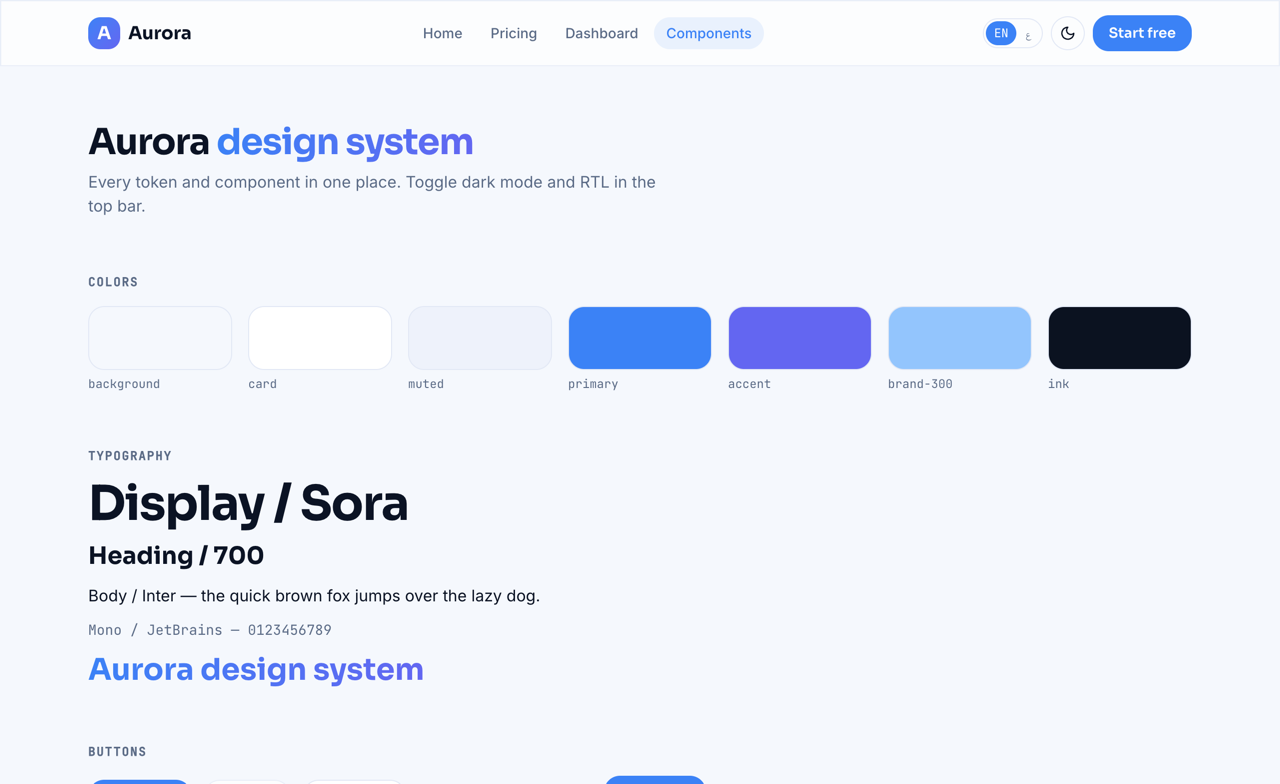
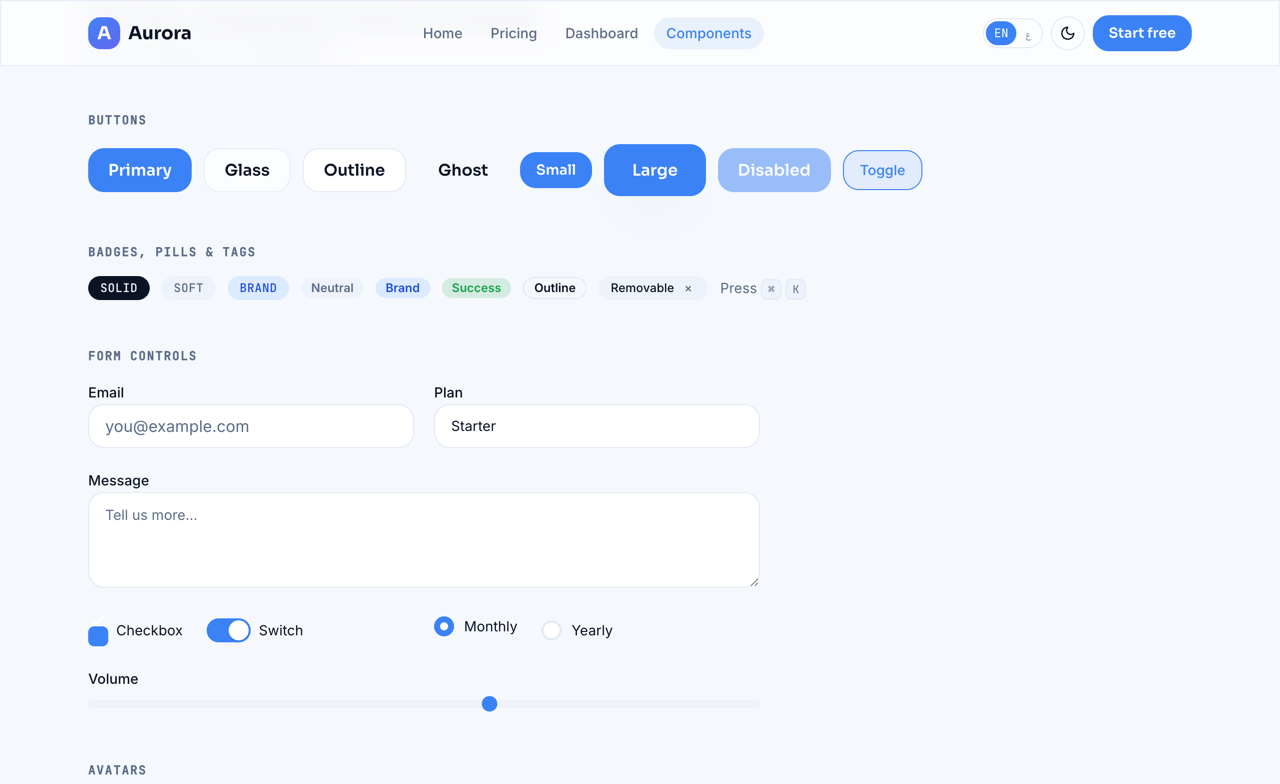
feat(aurora): expanded component showcase; recaptured

diff --git a/apps/web/public/demos/aurora/components/index.html b/apps/web/public/demos/aurora/components/index.html
@@ -10,8 +10,8 @@
       href="https://fonts.googleapis.com/css2?family=Sora:wght@500;600;700;800&family=Inter:wght@400;500;600&family=JetBrains+Mono:wght@400;500&family=Cairo:wght@400;600;700;800&display=swap"
       rel="stylesheet"
     />
-    <script type="module" crossorigin src="/demos/aurora/assets/index-C7sUe5hD.js"></script>
-    <link rel="stylesheet" crossorigin href="/demos/aurora/assets/index-BeMWQTHS.css">
+    <script type="module" crossorigin src="/demos/aurora/assets/index-BBTeIl3P.js"></script>
+    <link rel="stylesheet" crossorigin href="/demos/aurora/assets/index-Bfr8nJ9C.css">
   </head>
   <body>
     <div id="root"></div>

diff --git a/apps/web/public/demos/aurora/dashboard/index.html b/apps/web/public/demos/aurora/dashboard/index.html
@@ -10,8 +10,8 @@
       href="https://fonts.googleapis.com/css2?family=Sora:wght@500;600;700;800&family=Inter:wght@400;500;600&family=JetBrains+Mono:wght@400;500&family=Cairo:wght@400;600;700;800&display=swap"
       rel="stylesheet"
     />
-    <script type="module" crossorigin src="/demos/aurora/assets/index-C7sUe5hD.js"></script>
-    <link rel="stylesheet" crossorigin href="/demos/aurora/assets/index-BeMWQTHS.css">
+    <script type="module" crossorigin src="/demos/aurora/assets/index-BBTeIl3P.js"></script>
+    <link rel="stylesheet" crossorigin href="/demos/aurora/assets/index-Bfr8nJ9C.css">
   </head>
   <body>
     <div id="root"></div>

diff --git a/apps/web/public/demos/aurora/index.html b/apps/web/public/demos/aurora/index.html
@@ -10,8 +10,8 @@
       href="https://fonts.googleapis.com/css2?family=Sora:wght@500;600;700;800&family=Inter:wght@400;500;600&family=JetBrains+Mono:wght@400;500&family=Cairo:wght@400;600;700;800&display=swap"
       rel="stylesheet"
     />
-    <script type="module" crossorigin src="/demos/aurora/assets/index-C7sUe5hD.js"></script>
-    <link rel="stylesheet" crossorigin href="/demos/aurora/assets/index-BeMWQTHS.css">
+    <script type="module" crossorigin src="/demos/aurora/assets/index-BBTeIl3P.js"></script>
+    <link rel="stylesheet" crossorigin href="/demos/aurora/assets/index-Bfr8nJ9C.css">
   </head>
   <body>
     <div id="root"></div>

diff --git a/apps/web/public/demos/aurora/pricing/index.html b/apps/web/public/demos/aurora/pricing/index.html
@@ -10,8 +10,8 @@
       href="https://fonts.googleapis.com/css2?family=Sora:wght@500;600;700;800&family=Inter:wght@400;500;600&family=JetBrains+Mono:wght@400;500&family=Cairo:wght@400;600;700;800&display=swap"
       rel="stylesheet"
     />
-    <script type="module" crossorigin src="/demos/aurora/assets/index-C7sUe5hD.js"></script>
-    <link rel="stylesheet" crossorigin href="/demos/aurora/assets/index-BeMWQTHS.css">
+    <script type="module" crossorigin src="/demos/aurora/assets/index-BBTeIl3P.js"></script>
+    <link rel="stylesheet" crossorigin href="/demos/aurora/assets/index-Bfr8nJ9C.css">
   </head>
   <body>
     <div id="root"></div>

diff --git a/apps/web/public/demos/aurora/assets/index-Bfr8nJ9C.css b/apps/web/public/demos/aurora/assets/index-Bfr8nJ9C.css
@@ -1,0 +1,1 @@
+@layer properties{@supports (((-webkit-hyphens:none)) and (not (margin-trim:inline))) or ((-moz-orient:inline) and (not (color:rgb(from red r g b)))){*,:before,:after,::backdrop{--tw-translate-x:0;--tw-translate-y:0;--tw-translate-z:0;--tw-space-y-reverse:0;--tw-space-x-reverse:0;--tw-divide-y-reverse:0;--tw-border-style:solid;--tw-gradient-position:initial;--tw-gradient-from:#0000;--tw-gradient-via:#0000;--tw-gradient-to:#0000;--tw-gradient-stops:initial;--tw-gradient-via-stops:initial;--tw-gradient-from-position:0%;--tw-gradient-via-position:50%;--tw-gradient-to-position:100%;--tw-leading:initial;--tw-font-weight:initial;--tw-tracking:initial;--tw-shadow:0 0 #0000;--tw-shadow-color:initial;--tw-shadow-alpha:100%;--tw-inset-shadow:0 0 #0000;--tw-inset-shadow-color:initial;--tw-inset-shadow-alpha:100%;--tw-ring-color:initial;--tw-ring-shadow:0 0 #0000;--tw-inset-ring-color:initial;--tw-inset-ring-shadow:0 0 #0000;--tw-ring-inset:initial;--tw-ring-offset-width:0px;--tw-ring-offset-color:#fff;--tw-ring-offset-shadow:0 0 #0000;--tw-outline-style:solid;--tw-backdrop-blur:initial;--tw-backdrop-brightness:initial;--tw-backdrop-contrast:initial;--tw-backdrop-grayscale:initial;--tw-backdrop-hue-rotate:initial;--tw-backdrop-invert:initial;--tw-backdrop-opacity:initial;--tw-backdrop-saturate:initial;--tw-backdrop-sepia:initial;--tw-content:"";--tw-blur:initial;--tw-brightness:initial;--tw-contrast:initial;--tw-grayscale:initial;--tw-hue-rotate:initial;--tw-invert:initial;--tw-opacity:initial;--tw-saturate:initial;--tw-sepia:initial;--tw-drop-shadow:initial;--tw-drop-shadow-color:initial;--tw-drop-shadow-alpha:100%;--tw-drop-shadow-size:initial}}}@layer theme{:root,:host{--font-sans:"Inter", "Cairo", system-ui, sans-serif;--font-mono:"JetBrains Mono", ui-monospace, monospace;--color-amber-500:oklch(76.9% .188 70.08);--color-rose-400:oklch(71.2% .194 13.428);--color-rose-500:oklch(64.5% .246 16.439);--color-white:#fff;--spacing:.25rem;--container-sm:24rem;--container-md:28rem;--container-xl:36rem;--container-2xl:42rem;--container-3xl:48rem;--container-4xl:56rem;--container-6xl:72rem;--text-xs:.75rem;--text-xs--line-height:calc(1 / .75);--text-sm:.875rem;--text-sm--line-height:calc(1.25 / .875);--text-base:1rem;--text-base--line-height: 1.5 ;--text-lg:1.125rem;--text-lg--line-height:calc(1.75 / 1.125);--text-xl:1.25rem;--text-xl--line-height:calc(1.75 / 1.25);--text-2xl:1.5rem;--text-2xl--line-height:calc(2 / 1.5);--text-3xl:1.875rem;--text-3xl--line-height: 1.2 ;--text-4xl:2.25rem;--text-4xl--line-height:calc(2.5 / 2.25);--text-5xl:3rem;--text-5xl--line-height:1;--text-6xl:3.75rem;--text-6xl--line-height:1;--text-7xl:4.5rem;--text-7xl--line-height:1;--font-weight-normal:400;--font-weight-medium:500;--font-weight-semibold:600;--font-weight-bold:700;--tracking-tight:-.025em;--tracking-wide:.025em;--tracking-widest:.1em;--leading-snug:1.375;--radius-md:.375rem;--radius-lg:1.5rem;--radius-xl:.75rem;--animate-spin:spin 1s linear infinite;--animate-pulse:pulse 2s cubic-bezier(.4, 0, .6, 1) infinite;--blur-sm:8px;--default-transition-duration:.15s;--default-transition-timing-function:cubic-bezier(.4, 0, .2, 1);--default-font-family:var(--font-sans);--default-mono-font-family:var(--font-mono);--radius:1rem;--font-display:"Sora", "Cairo", system-ui, sans-serif;--color-brand-100:#dbeafe;--color-brand-200:#bfdbfe;--color-brand-300:#93c5fd;--color-brand-400:#60a5fa;--color-brand-500:#3b82f6;--color-brand-700:#1d4ed8;--color-background:#f5f8fd;--color-foreground:#0b1324;--color-card:#fff;--color-muted:#eef2fb;--color-muted-foreground:#5b6b86;--color-border:#e2e8f5;--color-primary:#3b82f6;--color-primary-foreground:#fff;--color-accent:#6366f1;--color-ink:#0b1220;--color-ink-foreground:#eaf0fb;--color-success:#16a34a;--shadow-glass:0 20px 50px -24px #1e3a8a59}}@layer base{*,:after,:before,::backdrop{box-sizing:border-box;border:0 solid;margin:0;padding:0}::file-selector-button{box-sizing:border-box;border:0 solid;margin:0;padding:0}html,:host{-webkit-text-size-adjust:100%;tab-size:4;line-height:1.5;font-family:var(--default-font-family,ui-sans-serif, system-ui, sans-serif, "Apple Color Emoji", "Segoe UI Emoji", "Segoe UI Symbol", "Noto Color Emoji");font-feature-settings:var(--default-font-feature-settings,normal);font-variation-settings:var(--default-font-variation-settings,normal);-webkit-tap-highlight-color:transparent}hr{height:0;color:inherit;border-top-width:1px}abbr:where([title]){-webkit-text-decoration:underline dotted;text-decoration:underline dotted}h1,h2,h3,h4,h5,h6{font-size:inherit;font-weight:inherit}a{color:inherit;-webkit-text-decoration:inherit;text-decoration:inherit}b,strong{font-weight:bolder}code,kbd,samp,pre{font-family:var(--default-mono-font-family,ui-monospace, SFMono-Regular, Menlo, Monaco, Consolas, "Liberation Mono", "Courier New", monospace);font-feature-settings:var(--default-mono-font-feature-settings,normal);font-variation-settings:var(--default-mono-font-variation-settings,normal);font-size:1em}small{font-size:80%}sub,sup{vertical-align:baseline;font-size:75%;line-height:0;position:relative}sub{bottom:-.25em}sup{top:-.5em}table{text-indent:0;border-color:inherit;border-collapse:collapse}:-moz-focusring{outline:auto}progress{vertical-align:baseline}summary{display:list-item}ol,ul,menu{list-style:none}img,svg,video,canvas,audio,iframe,embed,object{vertical-align:middle;display:block}img,video{max-width:100%;height:auto}button,input,select,optgroup,textarea{font:inherit;font-feature-settings:inherit;font-variation-settings:inherit;letter-spacing:inherit;color:inherit;opacity:1;background-color:#0000;border-radius:0}::file-selector-button{font:inherit;font-feature-settings:inherit;font-variation-settings:inherit;letter-spacing:inherit;color:inherit;opacity:1;background-color:#0000;border-radius:0}:where(select:is([multiple],[size])) optgroup{font-weight:bolder}:where(select:is([multiple],[size])) optgroup option{padding-inline-start:20px}::file-selector-button{margin-inline-end:4px}::placeholder{opacity:1}@supports (not ((-webkit-appearance:-apple-pay-button))) or (contain-intrinsic-size:1px){::placeholder{color:currentColor}@supports (color:color-mix(in lab,red,red)){::placeholder{color:color-mix(in oklab,currentcolor 50%,transparent)}}}textarea{resize:vertical}::-webkit-search-decoration{-webkit-appearance:none}::-webkit-date-and-time-value{min-height:1lh;text-align:inherit}::-webkit-datetime-edit{display:inline-flex}::-webkit-datetime-edit-fields-wrapper{padding:0}::-webkit-datetime-edit{padding-block:0}::-webkit-datetime-edit-year-field{padding-block:0}::-webkit-datetime-edit-month-field{padding-block:0}::-webkit-datetime-edit-day-field{padding-block:0}::-webkit-datetime-edit-hour-field{padding-block:0}::-webkit-datetime-edit-minute-field{padding-block:0}::-webkit-datetime-edit-second-field{padding-block:0}::-webkit-datetime-edit-millisecond-field{padding-block:0}::-webkit-datetime-edit-meridiem-field{padding-block:0}::-webkit-calendar-picker-indicator{line-height:1}:-moz-ui-invalid{box-shadow:none}button,input:where([type=button],[type=reset],[type=submit]){appearance:button}::file-selector-button{appearance:button}::-webkit-inner-spin-button{height:auto}::-webkit-outer-spin-button{height:auto}[hidden]:where(:not([hidden=until-found])){display:none!important}.dark{--color-background:#060b16;--color-foreground:#e8eefb;--color-card:#0e1626;--color-muted:#131e33;--color-muted-foreground:#8da3c4;--color-border:#1d2a44;--color-primary:#60a5fa;--color-primary-foreground:#06101f;--color-accent:#818cf8;--color-ink:#05080f;--color-ink-foreground:#e8eefb;--shadow-glass:0 20px 50px -24px #0009}[dir=rtl]{--font-display:"Cairo", "Sora", sans-serif;--font-sans:"Cairo", "Inter", sans-serif}html{background-color:var(--color-background);color:var(--color-foreground);font-family:var(--font-sans);-webkit-font-smoothing:antialiased}}@layer components;@layer utilities{.pointer-events-none{pointer-events:none}.invisible{visibility:hidden}.sr-only{clip-path:inset(50%);white-space:nowrap;border-width:0;width:1px;height:1px;margin:-1px;padding:0;position:absolute;overflow:hidden}.absolute{position:absolute}.fixed{position:fixed}.relative{position:relative}.sticky{position:sticky}.inset-0{inset:0}.start-1\/2{inset-inline-start:50%}.end-0{inset-inline-end:calc(var(--spacing) * 0)}.top-0{top:0}.top-2\.5{top:calc(var(--spacing) * 2.5)}.right-2\.5{right:calc(var(--spacing) * 2.5)}.bottom-full{bottom:100%}.z-20{z-index:20}.z-40{z-index:40}.z-50{z-index:50}.col-start-1{grid-column-start:1}.row-start-1{grid-row-start:1}.mx-1{margin-inline:var(--spacing)}.mx-auto{margin-inline:auto}.mt-1{margin-top:var(--spacing)}.mt-1\.5{margin-top:calc(var(--spacing) * 1.5)}.mt-2{margin-top:calc(var(--spacing) * 2)}.mt-3{margin-top:calc(var(--spacing) * 3)}.mt-4{margin-top:calc(var(--spacing) * 4)}.mt-6{margin-top:calc(var(--spacing) * 6)}.mt-8{margin-top:calc(var(--spacing) * 8)}.mt-9{margin-top:calc(var(--spacing) * 9)}.mt-10{margin-top:calc(var(--spacing) * 10)}.mt-16{margin-top:calc(var(--spacing) * 16)}.mb-1{margin-bottom:var(--spacing)}.mb-2{margin-bottom:calc(var(--spacing) * 2)}.mb-3{margin-bottom:calc(var(--spacing) * 3)}.mb-4{margin-bottom:calc(var(--spacing) * 4)}.mb-6{margin-bottom:calc(var(--spacing) * 6)}.mb-12{margin-bottom:calc(var(--spacing) * 12)}.block{display:block}.flex{display:flex}.grid{display:grid}.hidden{display:none}.inline-block{display:inline-block}.inline-flex{display:inline-flex}.inline-grid{display:inline-grid}.h-1\.5{height:calc(var(--spacing) * 1.5)}.h-2{height:calc(var(--spacing) * 2)}.h-3{height:calc(var(--spacing) * 3)}.h-4{height:calc(var(--spacing) * 4)}.h-5{height:calc(var(--spacing) * 5)}.h-6{height:calc(var(--spacing) * 6)}.h-7{height:calc(var(--spacing) * 7)}.h-8{height:calc(var(--spacing) * 8)}.h-9{height:calc(var(--spacing) * 9)}.h-10{height:calc(var(--spacing) * 10)}.h-11{height:calc(var(--spacing) * 11)}.h-12{height:calc(var(--spacing) * 12)}.h-13{height:calc(var(--spacing) * 13)}.h-16{height:calc(var(--spacing) * 16)}.h-40{height:calc(var(--spacing) * 40)}.h-full{height:100%}.h-px{height:1px}.min-h-24{min-height:calc(var(--spacing) * 24)}.min-h-screen{min-height:100vh}.w-1\.5{width:calc(var(--spacing) * 1.5)}.w-1\/2{width:50%}.w-2{width:calc(var(--spacing) * 2)}.w-3{width:calc(var(--spacing) * 3)}.w-3\/4{width:75%}.w-4{width:calc(var(--spacing) * 4)}.w-5{width:calc(var(--spacing) * 5)}.w-6{width:calc(var(--spacing) * 6)}.w-7{width:calc(var(--spacing) * 7)}.w-8{width:calc(var(--spacing) * 8)}.w-9{width:calc(var(--spacing) * 9)}.w-10{width:calc(var(--spacing) * 10)}.w-11{width:calc(var(--spacing) * 11)}.w-12{width:calc(var(--spacing) * 12)}.w-20{width:calc(var(--spacing) * 20)}.w-44{width:calc(var(--spacing) * 44)}.w-52{width:calc(var(--spacing) * 52)}.w-56{width:calc(var(--spacing) * 56)}.w-fit{width:fit-content}.w-full{width:100%}.w-max{width:max-content}.w-px{width:1px}.max-w-2xl{max-width:var(--container-2xl)}.max-w-3xl{max-width:var(--container-3xl)}.max-w-4xl{max-width:var(--container-4xl)}.max-w-6xl{max-width:var(--container-6xl)}.max-w-md{max-width:var(--container-md)}.max-w-sm{max-width:var(--container-sm)}.max-w-xl{max-width:var(--container-xl)}.min-w-0{min-width:0}.min-w-9{min-width:calc(var(--spacing) * 9)}.flex-1{flex:1}.shrink-0{flex-shrink:0}.-translate-x-1\/2{--tw-translate-x: -50% ;translate:var(--tw-translate-x) var(--tw-translate-y)}.rotate-45{rotate:45deg}.animate-pulse{animation:var(--animate-pulse)}.animate-spin{animation:var(--animate-spin)}.cursor-pointer{cursor:pointer}.appearance-none{appearance:none}.grid-cols-2{grid-template-columns:repeat(2,minmax(0,1fr))}.flex-col{flex-direction:column}.flex-row{flex-direction:row}.flex-wrap{flex-wrap:wrap}.place-items-center{place-items:center}.items-center{align-items:center}.items-end{align-items:flex-end}.items-start{align-items:flex-start}.justify-between{justify-content:space-between}.justify-center{justify-content:center}.gap-1{gap:var(--spacing)}.gap-1\.5{gap:calc(var(--spacing) * 1.5)}.gap-2{gap:calc(var(--spacing) * 2)}.gap-2\.5{gap:calc(var(--spacing) * 2.5)}.gap-3{gap:calc(var(--spacing) * 3)}.gap-4{gap:calc(var(--spacing) * 4)}.gap-5{gap:calc(var(--spacing) * 5)}.gap-6{gap:calc(var(--spacing) * 6)}.gap-8{gap:calc(var(--spacing) * 8)}:where(.space-y-1>:not(:last-child)){--tw-space-y-reverse:0;margin-block-start:calc(var(--spacing) * var(--tw-space-y-reverse));margin-block-end:calc(var(--spacing) * calc(1 - var(--tw-space-y-reverse)))}:where(.space-y-1\.5>:not(:last-child)){--tw-space-y-reverse:0;margin-block-start:calc(calc(var(--spacing) * 1.5) * var(--tw-space-y-reverse));margin-block-end:calc(calc(var(--spacing) * 1.5) * calc(1 - var(--tw-space-y-reverse)))}:where(.space-y-2>:not(:last-child)){--tw-space-y-reverse:0;margin-block-start:calc(calc(var(--spacing) * 2) * var(--tw-space-y-reverse));margin-block-end:calc(calc(var(--spacing) * 2) * calc(1 - var(--tw-space-y-reverse)))}:where(.space-y-3>:not(:last-child)){--tw-space-y-reverse:0;margin-block-start:calc(calc(var(--spacing) * 3) * var(--tw-space-y-reverse));margin-block-end:calc(calc(var(--spacing) * 3) * calc(1 - var(--tw-space-y-reverse)))}:where(.space-y-3\.5>:not(:last-child)){--tw-space-y-reverse:0;margin-block-start:calc(calc(var(--spacing) * 3.5) * var(--tw-space-y-reverse));margin-block-end:calc(calc(var(--spacing) * 3.5) * calc(1 - var(--tw-space-y-reverse)))}:where(.space-y-4>:not(:last-child)){--tw-space-y-reverse:0;margin-block-start:calc(calc(var(--spacing) * 4) * var(--tw-space-y-reverse));margin-block-end:calc(calc(var(--spacing) * 4) * calc(1 - var(--tw-space-y-reverse)))}:where(.space-y-6>:not(:last-child)){--tw-space-y-reverse:0;margin-block-start:calc(calc(var(--spacing) * 6) * var(--tw-space-y-reverse));margin-block-end:calc(calc(var(--spacing) * 6) * calc(1 - var(--tw-space-y-reverse)))}:where(.space-y-12>:not(:last-child)){--tw-space-y-reverse:0;margin-block-start:calc(calc(var(--spacing) * 12) * var(--tw-space-y-reverse));margin-block-end:calc(calc(var(--spacing) * 12) * calc(1 - var(--tw-space-y-reverse)))}:where(.-space-x-2>:not(:last-child)){--tw-space-x-reverse:0;margin-inline-start:calc(calc(var(--spacing) * -2) * var(--tw-space-x-reverse));margin-inline-end:calc(calc(var(--spacing) * -2) * calc(1 - var(--tw-space-x-reverse)))}:where(.divide-y>:not(:last-child)){--tw-divide-y-reverse:0;border-bottom-style:var(--tw-border-style);border-top-style:var(--tw-border-style);border-top-width:calc(1px * var(--tw-divide-y-reverse));border-bottom-width:calc(1px * calc(1 - var(--tw-divide-y-reverse)))}:where(.divide-border>:not(:last-child)){border-color:var(--color-border)}.self-stretch{align-self:stretch}.truncate{text-overflow:ellipsis;white-space:nowrap;overflow:hidden}.overflow-hidden{overflow:hidden}.rounded,.rounded-\[var\(--radius\)\]{border-radius:var(--radius)}.rounded-\[var\(--radius-lg\)\]{border-radius:var(--radius-lg)}.rounded-full{border-radius:3.40282e38px}.rounded-lg{border-radius:var(--radius-lg)}.rounded-md{border-radius:var(--radius-md)}.rounded-xl{border-radius:var(--radius-xl)}.rounded-t{border-top-left-radius:var(--radius);border-top-right-radius:var(--radius)}.border{border-style:var(--tw-border-style);border-width:1px}.border-2{border-style:var(--tw-border-style);border-width:2px}.border-y{border-block-style:var(--tw-border-style);border-block-width:1px}.border-t{border-top-style:var(--tw-border-style);border-top-width:1px}.border-t-0{border-top-style:var(--tw-border-style);border-top-width:0}.border-b{border-bottom-style:var(--tw-border-style);border-bottom-width:1px}.border-b-2{border-bottom-style:var(--tw-border-style);border-bottom-width:2px}.border-dashed{--tw-border-style:dashed;border-style:dashed}.border-amber-500\/30{border-color:#f99c004d}@supports (color:color-mix(in lab,red,red)){.border-amber-500\/30{border-color:color-mix(in oklab,var(--color-amber-500) 30%,transparent)}}.border-border{border-color:var(--color-border)}.border-border\/60{border-color:#e2e8f599}@supports (color:color-mix(in lab,red,red)){.border-border\/60{border-color:color-mix(in oklab,var(--color-border) 60%,transparent)}}.border-primary{border-color:var(--color-primary)}.border-primary\/30{border-color:#3b82f64d}@supports (color:color-mix(in lab,red,red)){.border-primary\/30{border-color:color-mix(in oklab,var(--color-primary) 30%,transparent)}}.border-rose-500\/30{border-color:#ff23574d}@supports (color:color-mix(in lab,red,red)){.border-rose-500\/30{border-color:color-mix(in oklab,var(--color-rose-500) 30%,transparent)}}.border-success\/30{border-color:#16a34a4d}@supports (color:color-mix(in lab,red,red)){.border-success\/30{border-color:color-mix(in oklab,var(--color-success) 30%,transparent)}}.border-transparent{border-color:#0000}.border-white\/10{border-color:#ffffff1a}@supports (color:color-mix(in lab,red,red)){.border-white\/10{border-color:color-mix(in oklab,var(--color-white) 10%,transparent)}}.border-t-primary{border-top-color:var(--color-primary)}.glass{background-color:#ffffffb8}@supports (color:color-mix(in lab,red,red)){.glass{background-color:color-mix(in oklab,var(--color-card) 72%,transparent)}}.glass{-webkit-backdrop-filter:blur(14px);backdrop-filter:blur(14px);border:1px solid #e2e8f5b3}@supports (color:color-mix(in lab,red,red)){.glass{border:1px solid color-mix(in oklab,var(--color-border) 70%,transparent)}}.bg-accent{background-color:var(--color-accent)}.bg-amber-500{background-color:var(--color-amber-500)}.bg-amber-500\/5{background-color:#f99c000d}@supports (color:color-mix(in lab,red,red)){.bg-amber-500\/5{background-color:color-mix(in oklab,var(--color-amber-500) 5%,transparent)}}.bg-background{background-color:var(--color-background)}.bg-border{background-color:var(--color-border)}.bg-brand-100{background-color:var(--color-brand-100)}.bg-brand-200{background-color:var(--color-brand-200)}.bg-brand-300{background-color:var(--color-brand-300)}.bg-brand-400{background-color:var(--color-brand-400)}.bg-card{background-color:var(--color-card)}.bg-card\/60{background-color:#fff9}@supports (color:color-mix(in lab,red,red)){.bg-card\/60{background-color:color-mix(in oklab,var(--color-card) 60%,transparent)}}.bg-foreground{background-color:var(--color-foreground)}.bg-foreground\/80{background-color:#0b1324cc}@supports (color:color-mix(in lab,red,red)){.bg-foreground\/80{background-color:color-mix(in oklab,var(--color-foreground) 80%,transparent)}}.bg-ink{background-color:var(--color-ink)}.bg-ink\/50{background-color:#0b122080}@supports (color:color-mix(in lab,red,red)){.bg-ink\/50{background-color:color-mix(in oklab,var(--color-ink) 50%,transparent)}}.bg-muted{background-color:var(--color-muted)}.bg-muted-foreground\/40{background-color:#5b6b8666}@supports (color:color-mix(in lab,red,red)){.bg-muted-foreground\/40{background-color:color-mix(in oklab,var(--color-muted-foreground) 40%,transparent)}}.bg-primary{background-color:var(--color-primary)}.bg-primary\/5{background-color:#3b82f60d}@supports (color:color-mix(in lab,red,red)){.bg-primary\/5{background-color:color-mix(in oklab,var(--color-primary) 5%,transparent)}}.bg-primary\/10{background-color:#3b82f61a}@supports (color:color-mix(in lab,red,red)){.bg-primary\/10{background-color:color-mix(in oklab,var(--color-primary) 10%,transparent)}}.bg-rose-400{background-color:var(--color-rose-400)}.bg-rose-500{background-color:var(--color-rose-500)}.bg-rose-500\/5{background-color:#ff23570d}@supports (color:color-mix(in lab,red,red)){.bg-rose-500\/5{background-color:color-mix(in oklab,var(--color-rose-500) 5%,transparent)}}.bg-success{background-color:var(--color-success)}.bg-success\/5{background-color:#16a34a0d}@supports (color:color-mix(in lab,red,red)){.bg-success\/5{background-color:color-mix(in oklab,var(--color-success) 5%,transparent)}}.bg-success\/15{background-color:#16a34a26}@supports (color:color-mix(in lab,red,red)){.bg-success\/15{background-color:color-mix(in oklab,var(--color-success) 15%,transparent)}}.bg-white\/5{background-color:#ffffff0d}@supports (color:color-mix(in lab,red,red)){.bg-white\/5{background-color:color-mix(in oklab,var(--color-white) 5%,transparent)}}.bg-gradient-to-br{--tw-gradient-position:to bottom right in oklab;background-image:linear-gradient(var(--tw-gradient-stops))}.bg-gradient-to-t{--tw-gradient-position:to top in oklab;background-image:linear-gradient(var(--tw-gradient-stops))}.grad-text{background-image:linear-gradient(100deg,var(--color-brand-500),var(--color-accent));color:#0000;-webkit-background-clip:text;background-clip:text}.mesh{background-image:radial-gradient(40rem 30rem at 15% -10%,#93c5fd8c,#0000),radial-gradient(36rem 28rem at 100% 0,#6366f159,#0000)}@supports (color:color-mix(in lab,red,red)){.mesh{background-image:radial-gradient(40rem 30rem at 15% -10%,color-mix(in oklab,var(--color-brand-300) 55%,transparent),transparent),radial-gradient(36rem 28rem at 100% 0%,color-mix(in oklab,var(--color-accent) 35%,transparent),transparent)}}.from-brand-500{--tw-gradient-from:var(--color-brand-500);--tw-gradient-stops:var(--tw-gradient-via-stops,var(--tw-gradient-position), var(--tw-gradient-from) var(--tw-gradient-from-position), var(--tw-gradient-to) var(--tw-gradient-to-position))}.to-accent{--tw-gradient-to:var(--color-accent);--tw-gradient-stops:var(--tw-gradient-via-stops,var(--tw-gradient-position), var(--tw-gradient-from) var(--tw-gradient-from-position), var(--tw-gradient-to) var(--tw-gradient-to-position))}.object-cover{object-fit:cover}.p-0{padding:0}.p-0\.5{padding:calc(var(--spacing) * .5)}.p-1\.5{padding:calc(var(--spacing) * 1.5)}.p-2{padding:calc(var(--spacing) * 2)}.p-3{padding:calc(var(--spacing) * 3)}.p-4{padding:calc(var(--spacing) * 4)}.p-5{padding:calc(var(--spacing) * 5)}.p-6{padding:calc(var(--spacing) * 6)}.p-10{padding:calc(var(--spacing) * 10)}.p-12{padding:calc(var(--spacing) * 12)}.px-1\.5{padding-inline:calc(var(--spacing) * 1.5)}.px-2{padding-inline:calc(var(--spacing) * 2)}.px-2\.5{padding-inline:calc(var(--spacing) * 2.5)}.px-3{padding-inline:calc(var(--spacing) * 3)}.px-3\.5{padding-inline:calc(var(--spacing) * 3.5)}.px-4{padding-inline:calc(var(--spacing) * 4)}.px-5{padding-inline:calc(var(--spacing) * 5)}.px-6{padding-inline:calc(var(--spacing) * 6)}.px-7{padding-inline:calc(var(--spacing) * 7)}.py-0\.5{padding-block:calc(var(--spacing) * .5)}.py-1{padding-block:var(--spacing)}.py-1\.5{padding-block:calc(var(--spacing) * 1.5)}.py-2{padding-block:calc(var(--spacing) * 2)}.py-2\.5{padding-block:calc(var(--spacing) * 2.5)}.py-3{padding-block:calc(var(--spacing) * 3)}.py-4{padding-block:calc(var(--spacing) * 4)}.py-8{padding-block:calc(var(--spacing) * 8)}.py-12{padding-block:calc(var(--spacing) * 12)}.py-14{padding-block:calc(var(--spacing) * 14)}.py-20{padding-block:calc(var(--spacing) * 20)}.py-24{padding-block:calc(var(--spacing) * 24)}.pt-0{padding-top:0}.pt-2{padding-top:calc(var(--spacing) * 2)}.pt-4{padding-top:calc(var(--spacing) * 4)}.pb-3{padding-bottom:calc(var(--spacing) * 3)}.pb-4{padding-bottom:calc(var(--spacing) * 4)}.pb-20{padding-bottom:calc(var(--spacing) * 20)}.pb-24{padding-bottom:calc(var(--spacing) * 24)}.text-center{text-align:center}.text-end{text-align:end}.text-start{text-align:start}.font-display{font-family:var(--font-display)}.font-mono{font-family:var(--font-mono)}.font-sans{font-family:var(--font-sans)}.text-2xl{font-size:var(--text-2xl);line-height:var(--tw-leading,var(--text-2xl--line-height))}.text-3xl{font-size:var(--text-3xl);line-height:var(--tw-leading,var(--text-3xl--line-height))}.text-4xl{font-size:var(--text-4xl);line-height:var(--tw-leading,var(--text-4xl--line-height))}.text-5xl{font-size:var(--text-5xl);line-height:var(--tw-leading,var(--text-5xl--line-height))}.text-base{font-size:var(--text-base);line-height:var(--tw-leading,var(--text-base--line-height))}.text-lg{font-size:var(--text-lg);line-height:var(--tw-leading,var(--text-lg--line-height))}.text-sm{font-size:var(--text-sm);line-height:var(--tw-leading,var(--text-sm--line-height))}.text-xl{font-size:var(--text-xl);line-height:var(--tw-leading,var(--text-xl--line-height))}.text-xs{font-size:var(--text-xs);line-height:var(--tw-leading,var(--text-xs--line-height))}.text-\[10px\]{font-size:10px}.text-\[11px\]{font-size:11px}.leading-\[1\.05\]{--tw-leading:1.05;line-height:1.05}.leading-snug{--tw-leading:var(--leading-snug);line-height:var(--leading-snug)}.font-bold{--tw-font-weight:var(--font-weight-bold);font-weight:var(--font-weight-bold)}.font-medium{--tw-font-weight:var(--font-weight-medium);font-weight:var(--font-weight-medium)}.font-normal{--tw-font-weight:var(--font-weight-normal);font-weight:var(--font-weight-normal)}.font-semibold{--tw-font-weight:var(--font-weight-semibold);font-weight:var(--font-weight-semibold)}.tracking-tight{--tw-tracking:var(--tracking-tight);letter-spacing:var(--tracking-tight)}.tracking-wide{--tw-tracking:var(--tracking-wide);letter-spacing:var(--tracking-wide)}.tracking-widest{--tw-tracking:var(--tracking-widest);letter-spacing:var(--tracking-widest)}.whitespace-nowrap{white-space:nowrap}.text-background{color:var(--color-background)}.text-border{color:var(--color-border)}.text-brand-400{color:var(--color-brand-400)}.text-brand-700{color:var(--color-brand-700)}.text-foreground{color:var(--color-foreground)}.text-ink-foreground{color:var(--color-ink-foreground)}.text-ink-foreground\/70{color:#eaf0fbb3}@supports (color:color-mix(in lab,red,red)){.text-ink-foreground\/70{color:color-mix(in oklab,var(--color-ink-foreground) 70%,transparent)}}.text-muted-foreground{color:var(--color-muted-foreground)}.text-primary{color:var(--color-primary)}.text-primary-foreground{color:var(--color-primary-foreground)}.text-rose-500{color:var(--color-rose-500)}.text-success{color:var(--color-success)}.text-white{color:var(--color-white)}.uppercase{text-transform:uppercase}.accent-primary{accent-color:var(--color-primary)}.opacity-0{opacity:0}.shadow-\[var\(--shadow-glass\)\]{--tw-shadow:var(--shadow-glass);box-shadow:var(--tw-inset-shadow),var(--tw-inset-ring-shadow),var(--tw-ring-offset-shadow),var(--tw-ring-shadow),var(--tw-shadow)}.ring-2{--tw-ring-shadow:var(--tw-ring-inset,) 0 0 0 calc(2px + var(--tw-ring-offset-width)) var(--tw-ring-color,currentcolor);box-shadow:var(--tw-inset-shadow),var(--tw-inset-ring-shadow),var(--tw-ring-offset-shadow),var(--tw-ring-shadow),var(--tw-shadow)}.ring-background{--tw-ring-color:var(--color-background)}.ring-primary{--tw-ring-color:var(--color-primary)}.outline{outline-style:var(--tw-outline-style);outline-width:1px}.backdrop-blur-sm{--tw-backdrop-blur:blur(var(--blur-sm));-webkit-backdrop-filter:var(--tw-backdrop-blur,) var(--tw-backdrop-brightness,) var(--tw-backdrop-contrast,) var(--tw-backdrop-grayscale,) var(--tw-backdrop-hue-rotate,) var(--tw-backdrop-invert,) var(--tw-backdrop-opacity,) var(--tw-backdrop-saturate,) var(--tw-backdrop-sepia,);backdrop-filter:var(--tw-backdrop-blur,) var(--tw-backdrop-brightness,) var(--tw-backdrop-contrast,) var(--tw-backdrop-grayscale,) var(--tw-backdrop-hue-rotate,) var(--tw-backdrop-invert,) var(--tw-backdrop-opacity,) var(--tw-backdrop-saturate,) var(--tw-backdrop-sepia,)}.transition-all{transition-property:all;transition-timing-function:var(--tw-ease,var(--default-transition-timing-function));transition-duration:var(--tw-duration,var(--default-transition-duration))}.transition-colors{transition-property:color,background-color,border-color,outline-color,text-decoration-color,fill,stroke,--tw-gradient-from,--tw-gradient-via,--tw-gradient-to;transition-timing-function:var(--tw-ease,var(--default-transition-timing-function));transition-duration:var(--tw-duration,var(--default-transition-duration))}.transition-opacity{transition-property:opacity;transition-timing-function:var(--tw-ease,var(--default-transition-timing-function));transition-duration:var(--tw-duration,var(--default-transition-duration))}.transition-shadow{transition-property:box-shadow;transition-timing-function:var(--tw-ease,var(--default-transition-timing-function));transition-duration:var(--tw-duration,var(--default-transition-duration))}.transition-transform{transition-property:transform,translate,scale,rotate;transition-timing-function:var(--tw-ease,var(--default-transition-timing-function));transition-duration:var(--tw-duration,var(--default-transition-duration))}.outline-none{--tw-outline-style:none;outline-style:none}.group-focus-within\:opacity-100:is(:where(.group):focus-within *){opacity:1}@media(hover:hover){.group-hover\:opacity-100:is(:where(.group):hover *){opacity:1}}.peer-checked\:visible:is(:where(.peer):checked~*){visibility:visible}.peer-checked\:bg-primary:is(:where(.peer):checked~*){background-color:var(--color-primary)}.peer-focus-visible\:ring-2:is(:where(.peer):focus-visible~*){--tw-ring-shadow:var(--tw-ring-inset,) 0 0 0 calc(2px + var(--tw-ring-offset-width)) var(--tw-ring-color,currentcolor);box-shadow:var(--tw-inset-shadow),var(--tw-inset-ring-shadow),var(--tw-ring-offset-shadow),var(--tw-ring-shadow),var(--tw-shadow)}.peer-focus-visible\:ring-primary\/40:is(:where(.peer):focus-visible~*){--tw-ring-color:#3b82f666}@supports (color:color-mix(in lab,red,red)){.peer-focus-visible\:ring-primary\/40:is(:where(.peer):focus-visible~*){--tw-ring-color:color-mix(in oklab, var(--color-primary) 40%, transparent)}}.placeholder\:text-muted-foreground::placeholder{color:var(--color-muted-foreground)}.after\:absolute:after{content:var(--tw-content);position:absolute}.after\:start-0\.5:after{content:var(--tw-content);inset-inline-start:calc(var(--spacing) * .5)}.after\:top-0\.5:after{content:var(--tw-content);top:calc(var(--spacing) * .5)}.after\:h-5:after{content:var(--tw-content);height:calc(var(--spacing) * 5)}.after\:w-5:after{content:var(--tw-content);width:calc(var(--spacing) * 5)}.after\:rounded-full:after{content:var(--tw-content);border-radius:3.40282e38px}.after\:bg-card:after{content:var(--tw-content);background-color:var(--color-card)}.after\:shadow:after{content:var(--tw-content);--tw-shadow:0 1px 3px 0 var(--tw-shadow-color,#0000001a), 0 1px 2px -1px var(--tw-shadow-color,#0000001a);box-shadow:var(--tw-inset-shadow),var(--tw-inset-ring-shadow),var(--tw-ring-offset-shadow),var(--tw-ring-shadow),var(--tw-shadow)}.after\:transition-all:after{content:var(--tw-content);transition-property:all;transition-timing-function:var(--tw-ease,var(--default-transition-timing-function));transition-duration:var(--tw-duration,var(--default-transition-duration))}.peer-checked\:after\:translate-x-5:is(:where(.peer):checked~*):after{content:var(--tw-content);--tw-translate-x:calc(var(--spacing) * 5);translate:var(--tw-translate-x) var(--tw-translate-y)}.checked\:border-\[6px\]:checked{border-style:var(--tw-border-style);border-width:6px}.checked\:border-primary:checked{border-color:var(--color-primary)}.checked\:bg-primary:checked{background-color:var(--color-primary)}@media(hover:hover){.hover\:-translate-y-1:hover{--tw-translate-y:calc(var(--spacing) * -1);translate:var(--tw-translate-x) var(--tw-translate-y)}.hover\:bg-border:hover{background-color:var(--color-border)}.hover\:bg-card\/90:hover{background-color:#ffffffe6}@supports (color:color-mix(in lab,red,red)){.hover\:bg-card\/90:hover{background-color:color-mix(in oklab,var(--color-card) 90%,transparent)}}.hover\:bg-muted:hover{background-color:var(--color-muted)}.hover\:text-foreground:hover{color:var(--color-foreground)}.hover\:brightness-110:hover{--tw-brightness:brightness(110%);filter:var(--tw-blur,) var(--tw-brightness,) var(--tw-contrast,) var(--tw-grayscale,) var(--tw-hue-rotate,) var(--tw-invert,) var(--tw-saturate,) var(--tw-sepia,) var(--tw-drop-shadow,)}}.focus\:border-primary:focus{border-color:var(--color-primary)}.focus\:ring-2:focus{--tw-ring-shadow:var(--tw-ring-inset,) 0 0 0 calc(2px + var(--tw-ring-offset-width)) var(--tw-ring-color,currentcolor);box-shadow:var(--tw-inset-shadow),var(--tw-inset-ring-shadow),var(--tw-ring-offset-shadow),var(--tw-ring-shadow),var(--tw-shadow)}.focus\:ring-primary\/20:focus{--tw-ring-color:#3b82f633}@supports (color:color-mix(in lab,red,red)){.focus\:ring-primary\/20:focus{--tw-ring-color:color-mix(in oklab, var(--color-primary) 20%, transparent)}}.focus\:ring-primary\/40:focus{--tw-ring-color:#3b82f666}@supports (color:color-mix(in lab,red,red)){.focus\:ring-primary\/40:focus{--tw-ring-color:color-mix(in oklab, var(--color-primary) 40%, transparent)}}.focus-visible\:ring-2:focus-visible{--tw-ring-shadow:var(--tw-ring-inset,) 0 0 0 calc(2px + var(--tw-ring-offset-width)) var(--tw-ring-color,currentcolor);box-shadow:var(--tw-inset-shadow),var(--tw-inset-ring-shadow),var(--tw-ring-offset-shadow),var(--tw-ring-shadow),var(--tw-shadow)}.focus-visible\:ring-primary\/40:focus-visible{--tw-ring-color:#3b82f666}@supports (color:color-mix(in lab,red,red)){.focus-visible\:ring-primary\/40:focus-visible{--tw-ring-color:color-mix(in oklab, var(--color-primary) 40%, transparent)}}.focus-visible\:outline-none:focus-visible{--tw-outline-style:none;outline-style:none}.active\:scale-\[0\.98\]:active{scale:.98}.disabled\:opacity-50:disabled{opacity:.5}@media(min-width:40rem){.sm\:col-span-2{grid-column:span 2/span 2}.sm\:col-span-3{grid-column:span 3/span 3}.sm\:inline-flex{display:inline-flex}.sm\:grid-cols-2{grid-template-columns:repeat(2,minmax(0,1fr))}.sm\:grid-cols-3{grid-template-columns:repeat(3,minmax(0,1fr))}.sm\:grid-cols-4{grid-template-columns:repeat(4,minmax(0,1fr))}.sm\:flex-row{flex-direction:row}.sm\:p-16{padding:calc(var(--spacing) * 16)}.sm\:p-20{padding:calc(var(--spacing) * 20)}.sm\:py-32{padding-block:calc(var(--spacing) * 32)}.sm\:text-5xl{font-size:var(--text-5xl);line-height:var(--tw-leading,var(--text-5xl--line-height))}.sm\:text-6xl{font-size:var(--text-6xl);line-height:var(--tw-leading,var(--text-6xl--line-height))}.sm\:text-7xl{font-size:var(--text-7xl);line-height:var(--tw-leading,var(--text-7xl--line-height))}}@media(min-width:48rem){.md\:block{display:block}.md\:flex{display:flex}.md\:grid-cols-2{grid-template-columns:repeat(2,minmax(0,1fr))}}@media(min-width:64rem){.lg\:col-span-2{grid-column:span 2/span 2}.lg\:block{display:block}.lg\:-translate-y-3{--tw-translate-y:calc(var(--spacing) * -3);translate:var(--tw-translate-x) var(--tw-translate-y)}.lg\:grid-cols-2{grid-template-columns:repeat(2,minmax(0,1fr))}.lg\:grid-cols-3{grid-template-columns:repeat(3,minmax(0,1fr))}.lg\:grid-cols-4{grid-template-columns:repeat(4,minmax(0,1fr))}.lg\:grid-cols-7{grid-template-columns:repeat(7,minmax(0,1fr))}.lg\:grid-cols-\[1fr_auto_1fr\]{grid-template-columns:1fr auto 1fr}}.rtl\:translate-x-1\/2:where(:dir(rtl),[dir=rtl],[dir=rtl] *){--tw-translate-x: 50% ;translate:var(--tw-translate-x) var(--tw-translate-y)}.rtl\:rotate-180:where(:dir(rtl),[dir=rtl],[dir=rtl] *){rotate:180deg}:where(.rtl\:space-x-reverse:where(:dir(rtl),[dir=rtl],[dir=rtl] *)>:not(:last-child)){--tw-space-x-reverse:1}.rtl\:peer-checked\:after\:-translate-x-5:where(:dir(rtl),[dir=rtl],[dir=rtl] *):is(:where(.peer):checked~*):after{content:var(--tw-content);--tw-translate-x:calc(var(--spacing) * -5);translate:var(--tw-translate-x) var(--tw-translate-y)}}body{margin:0}@keyframes aurora-marquee{0%{transform:translate(0)}to{transform:translate(-50%)}}[dir=rtl] .aurora-marquee-track{animation-direction:reverse}.aurora-marquee-track{animation:30s linear infinite aurora-marquee}@property --tw-translate-x{syntax:"*";inherits:false;initial-value:0}@property --tw-translate-y{syntax:"*";inherits:false;initial-value:0}@property --tw-translate-z{syntax:"*";inherits:false;initial-value:0}@property --tw-space-y-reverse{syntax:"*";inherits:false;initial-value:0}@property --tw-space-x-reverse{syntax:"*";inherits:false;initial-value:0}@property --tw-divide-y-reverse{syntax:"*";inherits:false;initial-value:0}@property --tw-border-style{syntax:"*";inherits:false;initial-value:solid}@property --tw-gradient-position{syntax:"*";inherits:false}@property --tw-gradient-from{syntax:"<color>";inherits:false;initial-value:#0000}@property --tw-gradient-via{syntax:"<color>";inherits:false;initial-value:#0000}@property --tw-gradient-to{syntax:"<color>";inherits:false;initial-value:#0000}@property --tw-gradient-stops{syntax:"*";inherits:false}@property --tw-gradient-via-stops{syntax:"*";inherits:false}@property --tw-gradient-from-position{syntax:"<length-percentage>";inherits:false;initial-value:0%}@property --tw-gradient-via-position{syntax:"<length-percentage>";inherits:false;initial-value:50%}@property --tw-gradient-to-position{syntax:"<length-percentage>";inherits:false;initial-value:100%}@property --tw-leading{syntax:"*";inherits:false}@property --tw-font-weight{syntax:"*";inherits:false}@property --tw-tracking{syntax:"*";inherits:false}@property --tw-shadow{syntax:"*";inherits:false;initial-value:0 0 #0000}@property --tw-shadow-color{syntax:"*";inherits:false}@property --tw-shadow-alpha{syntax:"<percentage>";inherits:false;initial-value:100%}@property --tw-inset-shadow{syntax:"*";inherits:false;initial-value:0 0 #0000}@property --tw-inset-shadow-color{syntax:"*";inherits:false}@property --tw-inset-shadow-alpha{syntax:"<percentage>";inherits:false;initial-value:100%}@property --tw-ring-color{syntax:"*";inherits:false}@property --tw-ring-shadow{syntax:"*";inherits:false;initial-value:0 0 #0000}@property --tw-inset-ring-color{syntax:"*";inherits:false}@property --tw-inset-ring-shadow{syntax:"*";inherits:false;initial-value:0 0 #0000}@property --tw-ring-inset{syntax:"*";inherits:false}@property --tw-ring-offset-width{syntax:"<length>";inherits:false;initial-value:0}@property --tw-ring-offset-color{syntax:"*";inherits:false;initial-value:#fff}@property --tw-ring-offset-shadow{syntax:"*";inherits:false;initial-value:0 0 #0000}@property --tw-outline-style{syntax:"*";inherits:false;initial-value:solid}@property --tw-backdrop-blur{syntax:"*";inherits:false}@property --tw-backdrop-brightness{syntax:"*";inherits:false}@property --tw-backdrop-contrast{syntax:"*";inherits:false}@property --tw-backdrop-grayscale{syntax:"*";inherits:false}@property --tw-backdrop-hue-rotate{syntax:"*";inherits:false}@property --tw-backdrop-invert{syntax:"*";inherits:false}@property --tw-backdrop-opacity{syntax:"*";inherits:false}@property --tw-backdrop-saturate{syntax:"*";inherits:false}@property --tw-backdrop-sepia{syntax:"*";inherits:false}@property --tw-content{syntax:"*";inherits:false;initial-value:""}@property --tw-blur{syntax:"*";inherits:false}@property --tw-brightness{syntax:"*";inherits:false}@property --tw-contrast{syntax:"*";inherits:false}@property --tw-grayscale{syntax:"*";inherits:false}@property --tw-hue-rotate{syntax:"*";inherits:false}@property --tw-invert{syntax:"*";inherits:false}@property --tw-opacity{syntax:"*";inherits:false}@property --tw-saturate{syntax:"*";inherits:false}@property --tw-sepia{syntax:"*";inherits:false}@property --tw-drop-shadow{syntax:"*";inherits:false}@property --tw-drop-shadow-color{syntax:"*";inherits:false}@property --tw-drop-shadow-alpha{syntax:"<percentage>";inherits:false;initial-value:100%}@property --tw-drop-shadow-size{syntax:"*";inherits:false}@keyframes spin{to{transform:rotate(360deg)}}@keyframes pulse{50%{opacity:.5}}